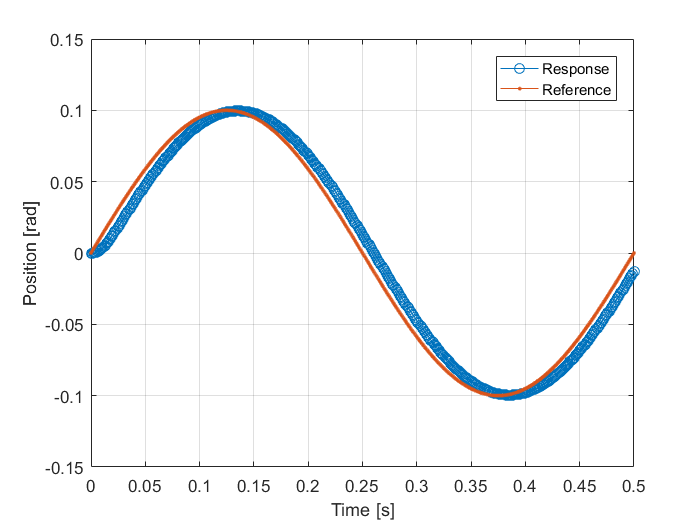
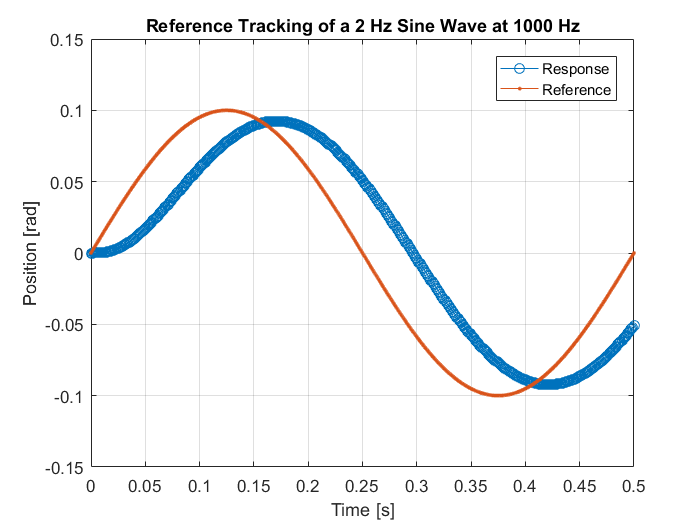
Updates

Changed region(s): [[0.12, 0.1829, 0.93, 0.7619], [0.21, 0.0305, 0.84, 0.061]]

diff --git a/analysisGivenLoopGain.m b/analysisGivenLoopGain.m
@@ -7,12 +7,14 @@ function analysisGivenLoopGain( loopGain, idt , Hz, Wr)
 %   :param Hz: frequency label for plot titles
 
     % Stability Margins
-    [Gm, Pm, Wcg, Wcp] = margin(loopGain);
+    figure(idt*10+3);
+    [Gm, Pm, Wcg, Wcp] = margin(loopGain); title('Gain Margin and Phase Margin');
+    margin(loopGain);
     Gm_dB = 20*log10(Gm);
     disp(['GM: ', num2str(Gm_dB), '  dB @ ', num2str(Wcg), ' Hz']);
     disp(['PM: ', num2str(Pm), ' deg @ ', num2str(Wcp), ' Hz']);
     
-    figure(idt*10+3);
+    figure(idt*10+4);
     [mag,phase,wout] = bode(loopGain);
     subplot(2,1,1);
     semilogx(wout, 20*log10(squeeze(mag)), '-b'); hold on;
@@ -26,7 +28,7 @@ function analysisGivenLoopGain( loopGain, idt , Hz, Wr)
     semilogx(wout, -180*ones(size(wout)), 'k--'); %xlim([1e-1, 1e5])
     grid on;
      
-    figure(idt*10+4);
+    figure(idt*10+5);
     nyquist(loopGain); title(['Nyquist'])
     axis equal;    grid;
 
@@ -35,22 +37,26 @@ function analysisGivenLoopGain( loopGain, idt , Hz, Wr)
     S_peak = getPeakGain(S);
     VGM = S_peak / (S_peak - 1)
 
-    figure(idt*10+5);
-    bodemag(S); title(['Sensitivity']);
+    figure(idt*10+6);
+    subplot(211);
+    bodemag(S); title(['Sensitivity']); grid on;
+    xlim([0.5,3.15e4]);
 
     % Complementary Sensitivity
-    T = 1-S; % feedback(loopGain, 1);
+    T = (loopGain) / (1 + loopGain); % 1-tf(S); % feedback(loopGain, 1);
 
-    figure(idt*10+6);
-    bodemag(T); title(['Complementary Sensitivity']);
+%     figure(idt*10+7);
+    subplot(212);
+    bodemag(T); title(['Complementary Sensitivity']); grid on;
+    xlim([0.5,3.5e4]);
     
     % Error Bound
     if nargin > 3
         if Hz == 0
-            figure(idt*10+7); bodemag(T, 1/Wr, 'r--'); legend('T(z)','1/Wr(z)'); title('Robust Stability');
+            figure(idt*10+8); bodemag(T, 1/Wr, 'r--'); legend('T(z)','1/Wr(z)'); title('Robust Stability');
         else
             Wr_d = c2d(Wr, 1/Hz, 'Tustin');
-            figure(idt*10+7); bodemag(T, 1/Wr_d, 'r--'); legend('T(z)','1/Wr(z)'); title([num2str(Hz),' Hz Robust Stability']);
+            figure(idt*10+8); bodemag(T, 1/Wr_d, 'r--'); legend('T(z)','1/Wr(z)'); title([num2str(Hz),' Hz Robust Stability']);
         end
     end
 end

diff --git a/sysStateEstimatorFeedbackWithModel.m b/sysStateEstimatorFeedbackWithModel.m
@@ -23,6 +23,11 @@ Cm = [  1   0   ];
 
 Dm = 0;
 
+% Am = 1;
+% Bm = 1;
+% Cm = 1;
+% Dm = 0;
+
 sys_M = ss(Am, Bm, Cm, Dm, Ts);
 
 nStatesModel = size(Am, 1);
@@ -45,9 +50,12 @@ Caug = [    Cp,             zeros(nOutputsModel, nStatesModel)   ];
 
 %% =============================== %%
 %% State Feedback Controller
-Qfb = [ 100000*eye(2),  zeros(2,2)      ;
-        zeros(2,2),     100000*eye(2)    ];
-Rfb = 1000000;
+Qfb = [ 10,      0,          0,          0   ;
+        0,          0.001,      0,          0   ;
+        0,          0,          10,      0   ;
+        0,          0,          0,          0.001  ];
+% Qfb = [10000, 0, 0; 0, 1000, 0; 0, 0, 10];
+Rfb = 100;
 [Kaug, ~, ~] = dlqr(Aaug, Baug, Qfb, Rfb);
 K = Kaug(1:nStates);
 Km = Kaug(nStates + 1:end);
@@ -55,7 +63,7 @@ Km = Kaug(nStates + 1:end);
 %% =============================== %%
 %% State Observer
 Qob = 10;
-Rob = 0.01;
+Rob = 1;
 
 [~, L, ~, ~] = kalman(sys, Qob, Rob);
 
@@ -71,9 +79,8 @@ Ccl = [ Caug,       zeros(nOutputs, nStates)    ];
 
 Dcl = 0;
 
-sysCL = ss(Acl, Bcl, Ccl, Dcl, Ts);
-eig_Acl = eig(Acl);
-disp(['Eigenvalues of closed loop poles: ', eig_Acl]);
+sysCL = minreal(ss(Acl, Bcl, Ccl, Dcl, Ts));
+
 
 %% =============================== %%
 %% Loop Gain %%
@@ -84,5 +91,10 @@ Lz = - ss(Ap - L*Cp - Bp*K, Bp, K, 0, Ts) * ss(Am, Bm, Km, 0, Ts) * ss(Ap, Bp, C
 Lz2 = ss(Ap - L*Cp - Bp*K, Bp, K, 0, Ts) * ss(Am, Bm, Km, 0, Ts) * ss(Ap, Bp, Cp, 0, Ts) ...
      + ss(Ap - L*Cp - Bp*K, L, K, 0, Ts) * ss(Ap, Bp, Cp, 0, Ts) ...
      - ss(Am, Bm, Km, 0, Ts) * ss(Ap, Bp, Cp, 0, Ts);
+
+Laug = [    L       ;
+            Bm      ];
+ 
+Lz3 = ss(Aaug - Laug*Caug - Baug*Kaug, Laug, Kaug, 0, Ts)*ss(Aaug, Baug, Caug, 0, Ts);
 end
 

diff --git a/main.m b/main.m
@@ -112,12 +112,12 @@ idt = 70; % Plot indicator
 [sys_CLModel, loopGainModel] = sysStateEstimatorFeedbackWithModel(sys_d, 2);
 
 figure(idt*10 + 1);
-bode(sys_CLModel); title('Closed-Loop Plant with Internal Model Frequency Response');
+bode(sys_CLModel); title('Closed-Loop Plant with Internal Model Frequency Response'); grid on;
 
 figure(idt*10 + 2);
-step(sys_CLModel); title('Closed-Loop Plant with Internal Model Step Response');
-stepInfoCLModel = stepinfo(sys_CLModel);
+step(sys_CLModel); title('Closed-Loop Plant with Internal Model Step Response'); grid on;
+stepInfoCLModel = stepinfo(sys_CLModel)
 
-sineWaveTracker(sys_CLModel, 0, 71, 2, Ts);
+sineWaveTracker(sys_CLModel, 0, 79, 2, Ts);
 
 analysisGivenLoopGain( loopGainModel, idt, 1/Ts);

diff --git a/sineWaveTracker.m b/sineWaveTracker.m
@@ -23,7 +23,7 @@ end
 % Plot the reference input and the output
 figure(idt);
 plot(t, y, 'o-', t, r, '.-'); 
-% title(['Reference Tracking of a ', num2str(w), ' Hz Sine Wave at ', num2str(1/Ts), ' Hz']);
+title(['Reference Tracking of a ', num2str(w), ' Hz Sine Wave at ', num2str(1/Ts), ' Hz']);
 xlabel('Time [s]'); ylabel('Position [rad]'); 
 ylim([-1.5*amp, 1.5*amp]);
 legend('Response','Reference');
